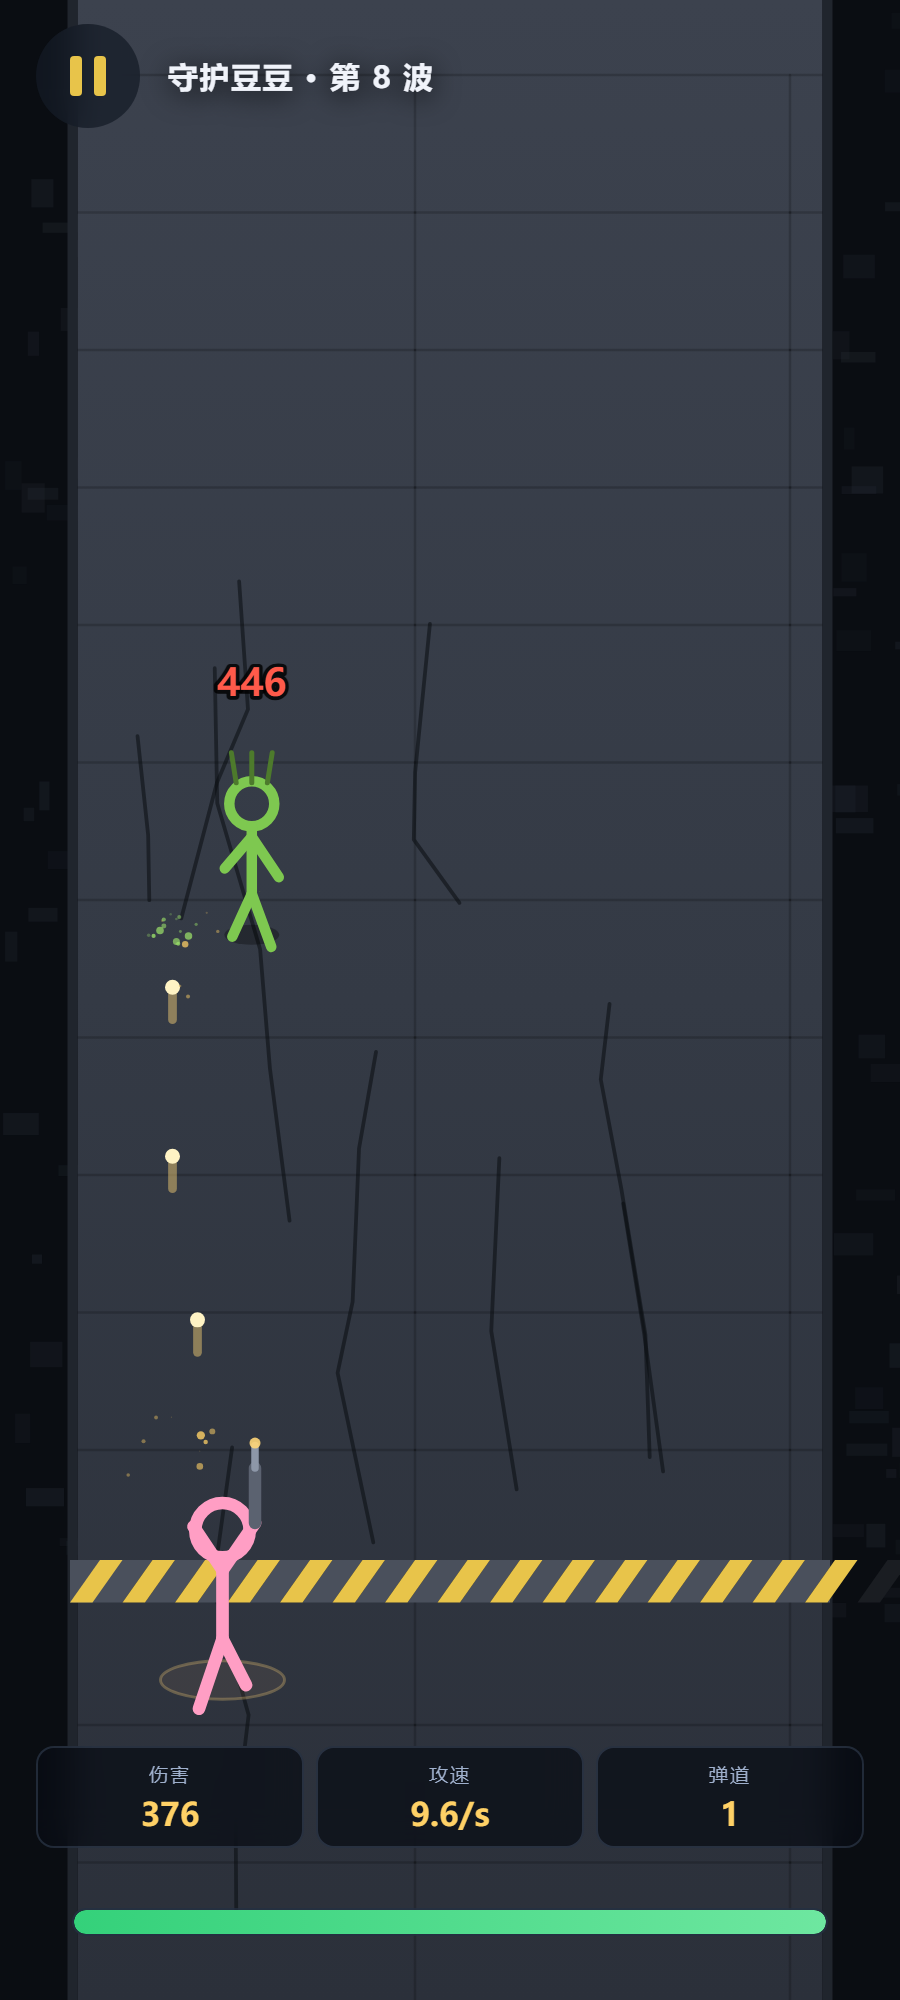
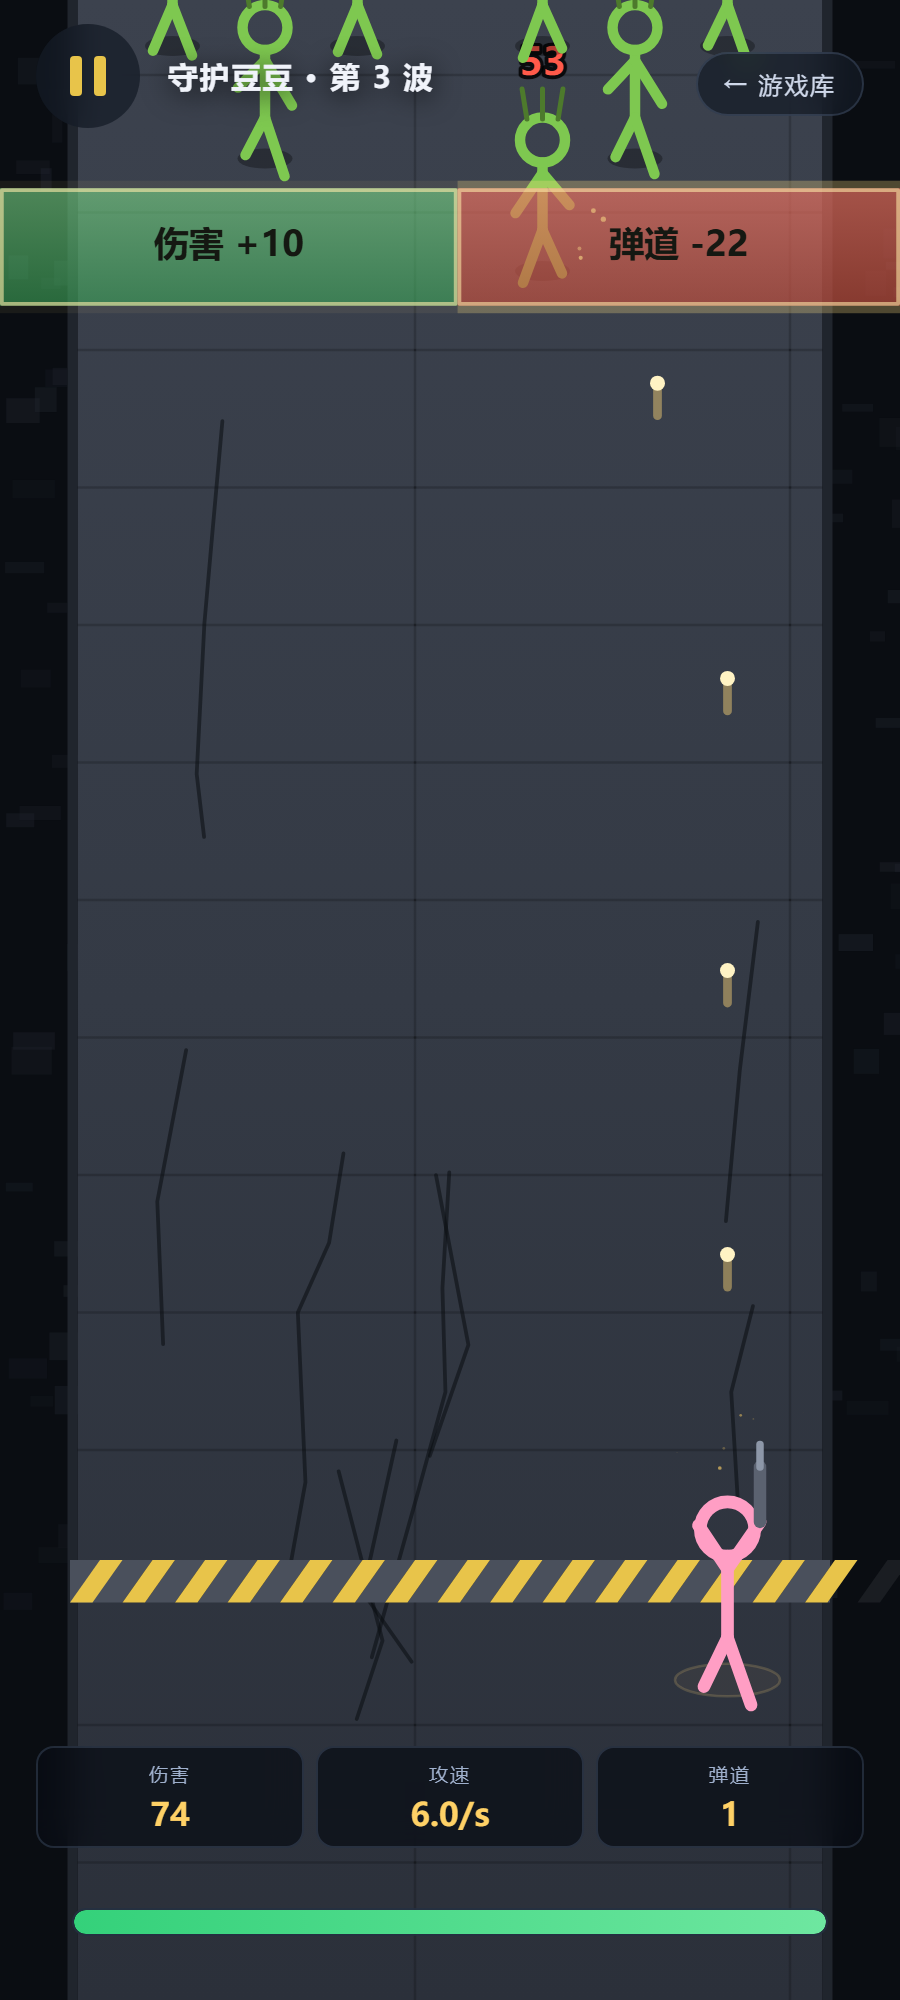
feat: 10 波 + 阵型生成，重新调平衡
- 杂兵压缩到 10 波，清完进 BOSS
- 每波整组按阵型出现：一字 / 长方形 / 倒三角 / 菱形
- 基础攻速 5→6、卡片冷却 18→14s、血量成长 1.65→1.88
- 40 局通过率 57.5%，接近 60% 目标

diff --git a/games/doudou/game.js b/games/doudou/game.js
@@ -27,15 +27,16 @@
   const BAL = Object.assign({
     dmgBase: 12,        // 初始单发伤害
     playerHp: 10,       // 桥头血量：漏一个小怪扣 1 点
-    baseRate: 5.0,      // 初始攻速（发/秒）
+    baseRate: 6.0,      // 初始攻速（发/秒）
     rateStep: 0.2,      // 每档攻速 +0.2/s
     rateFloor: 0.8,     // 攻速下限（吃了 -20 档的卡也不至于停火）
-    rateMaxTier: 40,    // 攻速档位上限 → 5 + 8 = 13/s
+    rateMaxTier: 40,    // 攻速档位上限 → 6 + 8 = 14/s
 
     hpBase: 36,         // 第 1 波单个小怪血量
-    hpGrowth: 1.65,     // 每过一波 ×1.65
-    bossAt: 160,        // 杀满这么多杂兵，BOSS 登场
-    bossMul: 12,        // BOSS 血量 = 当前波血量 ×12
+    hpGrowth: 1.88,     // 每过一波 ×1.88
+    waves: 10,          // 10 波杂兵，清完 BOSS 登场
+    bossMul: 14,        // BOSS 血量 = 第 10 波血量 ×14
+    formationRowGap: 90, // 阵型里前后排的间距（像素）
 
     dmgAddMin: 4,       // 伤害卡：固定 +4 起步，每命中 +1，最多 +60
     dmgAddMax: 60,
@@ -48,7 +49,7 @@
     shotsMin: -24,      // 弹道卡从 -24 开始
     shotsMax: 5,
 
-    cardCd: 18,         // 一对卡之间的冷却（秒）
+    cardCd: 14,         // 一对卡之间的冷却（秒）
     cardSpeed: 230,     // 卡片下落速度 → 5.8 秒落地
 
     // 攻击卡很少出：单张抽到的权重只有 12
@@ -118,10 +119,7 @@
     waveGap: 0,
     round: 0,
     waveSize: 0,
-    waveQueue: 0,
-    spawnGap: 1,
     cols: 2,
-    spawnIdx: 0,
     bossSpawned: false,
     cardCd: 0,
     player: {
@@ -216,9 +214,41 @@
     return a;
   }
 
-  // 列数：2 → 4 → 6 → 8，按波数推进
-  function waveCols(n) {
-    return Math.min(8, 2 * Math.ceil(n / 2));
+  /* ----------------------------------------------------------
+     阵型：每波固定一个形状，整组同时出现在桥顶
+     ----------------------------------------------------------
+     行号 0 是最前面（离桥头最近）的一排，行号越大越靠后。
+     形状用 (列, 行) 生成，再换算成屏幕坐标。 */
+
+  const WAVE_SCHEDULE = [
+    { kind: 'line',    w: 4, h: 1 },   // 1 波：4       一字
+    { kind: 'rect',    w: 3, h: 2 },   // 2 波：6       长方形
+    { kind: 'invTri',  w: 4, h: 4 },   // 3 波：10      倒三角（尖头朝桥头）
+    { kind: 'rect',    w: 4, h: 3 },   // 4 波：12      长方形
+    { kind: 'diamond', w: 4, h: 4 },   // 5 波：16      菱形
+    { kind: 'invTri',  w: 5, h: 5 },   // 6 波：15      倒三角
+    { kind: 'rect',    w: 5, h: 3 },   // 7 波：15      长方形
+    { kind: 'rect',    w: 5, h: 4 },   // 8 波：20      长方形
+    { kind: 'diamond', w: 5, h: 5 },   // 9 波：25      菱形
+    { kind: 'rect',    w: 5, h: 6 },   // 10 波：30     长方形
+  ];
+
+  function formationCells(kind, w, h) {
+    const cells = [];
+    const row = (r, width) => {
+      const start = (w - width) / 2;
+      for (let k = 0; k < width; k++) cells.push({ c: start + k, r });
+    };
+
+    if (kind === 'line') row(0, w);
+    else if (kind === 'rect') for (let r = 0; r < h; r++) row(r, w);
+    else if (kind === 'tri') for (let r = 0; r < h; r++) row(r, h - r);
+    else if (kind === 'invTri') for (let r = 0; r < h; r++) row(r, r + 1);
+    else if (kind === 'diamond') {
+      const rows = 2 * w - 1;
+      for (let r = 0; r < rows; r++) row(r, w - Math.abs(w - 1 - r));
+    }
+    return cells;
   }
 
   // 敌人站位：整组居中，第一波（2 列）正好落在左右半屏的中线上（180 / 540）。
@@ -243,7 +273,9 @@
     const ratio = Math.max(0, p.hp / p.maxHp);
     hpFill.style.width = `${ratio * 100}%`;
     hpFill.classList.toggle('low', ratio <= 0.3);
-    stageName.textContent = `守护豆豆 · 第 ${G.wave} 波`;
+    stageName.textContent = G.bossSpawned
+      ? '守护豆豆 · BOSS'
+      : `守护豆豆 · 第 ${G.wave} 波`;
   }
 
   /* ----------------------------------------------------------
@@ -255,7 +287,6 @@
     G.state = 'playing';
     G.waveGap = 1.4;
     G.cols = 2;
-    G.spawnIdx = 0;
     G.bossSpawned = false;
     G.spawnTimer = 0;
     G.cardCd = 0;
@@ -276,19 +307,14 @@
     return BAL.dmgCapBase * Math.pow(BAL.dmgCapGrowth, G.wave - 1);
   }
 
-  function spawnEnemy() {
-    const cols = G.cols;
-
-    const lane = G.spawnIdx % cols;
-    G.spawnIdx += 1;
-    const lx = laneX(lane, cols);
-
+  // 在指定位置放一个杂兵（一波开始时整组一起放出来）
+  function spawnGrunt(x, y, col) {
     const hp = enemyHp(G.wave);
 
     G.enemies.push({
       kind: 'grunt',
-      x: lx,
-      y: -70,
+      x,
+      y,
       hp,
       maxHp: hp,
       speed: 72,
@@ -296,14 +322,15 @@
       dead: false,
       hitFlash: 0,
       // 相邻两列的血条错开，后期数字长，不然会糊成一片
-      lift: (lane % 2) * 34,
+      lift: (Math.round(col) % 2) * 34,
       wob: Math.random() * Math.PI * 2,
     });
   }
 
   function spawnBoss() {
     // BOSS 是这道坎：当前波血量的十几倍
-    const hp = Math.round(enemyHp(G.wave) * BAL.bossMul);
+    // BOSS 按第 10 波的基准血量放大
+    const hp = Math.round(enemyHp(BAL.waves) * BAL.bossMul);
 
     G.enemies.push({
       kind: 'boss',
@@ -398,44 +425,42 @@
     return { wL, wR: W - wL, left, right };
   }
 
-  const BOSS_AT = BAL.bossAt;      // 打死这么多杂兵后，最终 BOSS 登场
-
-  // 一波一波来：生成完 → 等清场 → 歇一会 → 下一波
+  // 一波一波来：整组阵型一次放出来 → 等清场 → 歇一会 → 下一波
+  // 第 10 波清完，第 11 波直接上 BOSS。
   function startNextWave() {
     G.round += 1;
     G.wave = G.round;
-    G.cols = waveCols(G.wave);
-
-    G.waveSize = 4 + G.wave;           // 每波数量随波数增长
-    G.waveQueue = G.waveSize;
-    G.spawnGap = Math.max(0.4, 1.0 - G.wave * 0.05);
     G.spawnTimer = 0;
     G.waveGap = 2.2;                   // 清场后的休息时间
 
-    syncHud();
-
-    if (G.kills >= BOSS_AT && !G.bossSpawned) {
-      spawnBoss();
-      G.bossSpawned = true;
-      G.waveQueue = 0;
+    if (G.round > BAL.waves) {
+      if (!G.bossSpawned) {
+        spawnBoss();
+        G.bossSpawned = true;
+      }
+      syncHud();
+      return;
     }
+
+    const sched = WAVE_SCHEDULE[Math.min(G.round - 1, WAVE_SCHEDULE.length - 1)];
+    const cells = formationCells(sched.kind, sched.w, sched.h);
+    G.cols = sched.w;
+    G.waveSize = cells.length;
+
+    // 整组同时放出来：y 用行号错开，阵型就固定住了
+    for (const cell of cells) {
+      spawnGrunt(
+        laneX(cell.c, G.cols),
+        -70 - cell.r * BAL.formationRowGap,
+        cell.c
+      );
+    }
+
+    syncHud();
   }
 
   function updateSpawner(dt) {
     if (G.bossSpawned && G.enemies.length === 0) return;
-
-    // 这一波还没吐完
-    if (G.waveQueue > 0) {
-      G.spawnTimer -= dt;
-      if (G.spawnTimer <= 0) {
-        spawnEnemy();
-        G.waveQueue -= 1;
-        G.spawnTimer = G.spawnGap;
-      }
-      return;
-    }
-
-    // 吐完了，等场上清干净
     if (G.enemies.length > 0) return;
 
     // 清场了，歇一会儿再开下一波
@@ -798,7 +823,6 @@
     G.waveGap = 0;
     G.round = 0;
     G.waveSize = 0;
-    G.waveQueue = 0;
     G.bossSpawned = false;
     G.cardCd = 0;
 

diff --git a/AGENTS.md b/AGENTS.md
@@ -52,7 +52,8 @@ node D:\DP\.tools\input-test.js
 
 ## 4. 现有关卡 / 玩法速查（守护豆豆）
 
-- 敌人血量 `36 × 1.65^(波数-1)`；伤害上限 `50 × 1.4^(波数-1)`。
-- 攻击卡 ÷30 起步、很稀有，是通关门票；没有攻击卡必输。
+- 敌人血量 `36 × 1.88^(波数-1)`；伤害上限 `50 × 1.4^(波数-1)`。
+- 10 波杂兵，每波固定阵型（一字 / 长方形 / 倒三角 / 菱形），第 11 波 BOSS。
+- 攻击卡 ÷30 起步、很稀有，是通关门票；没有攻击卡基本必输。
 - 桥头 10 点血；BOSS 过桥直接判负。
 - 数值实验：`node D:\DP\.tools\headless.js --runs 40 --policy feed`。
